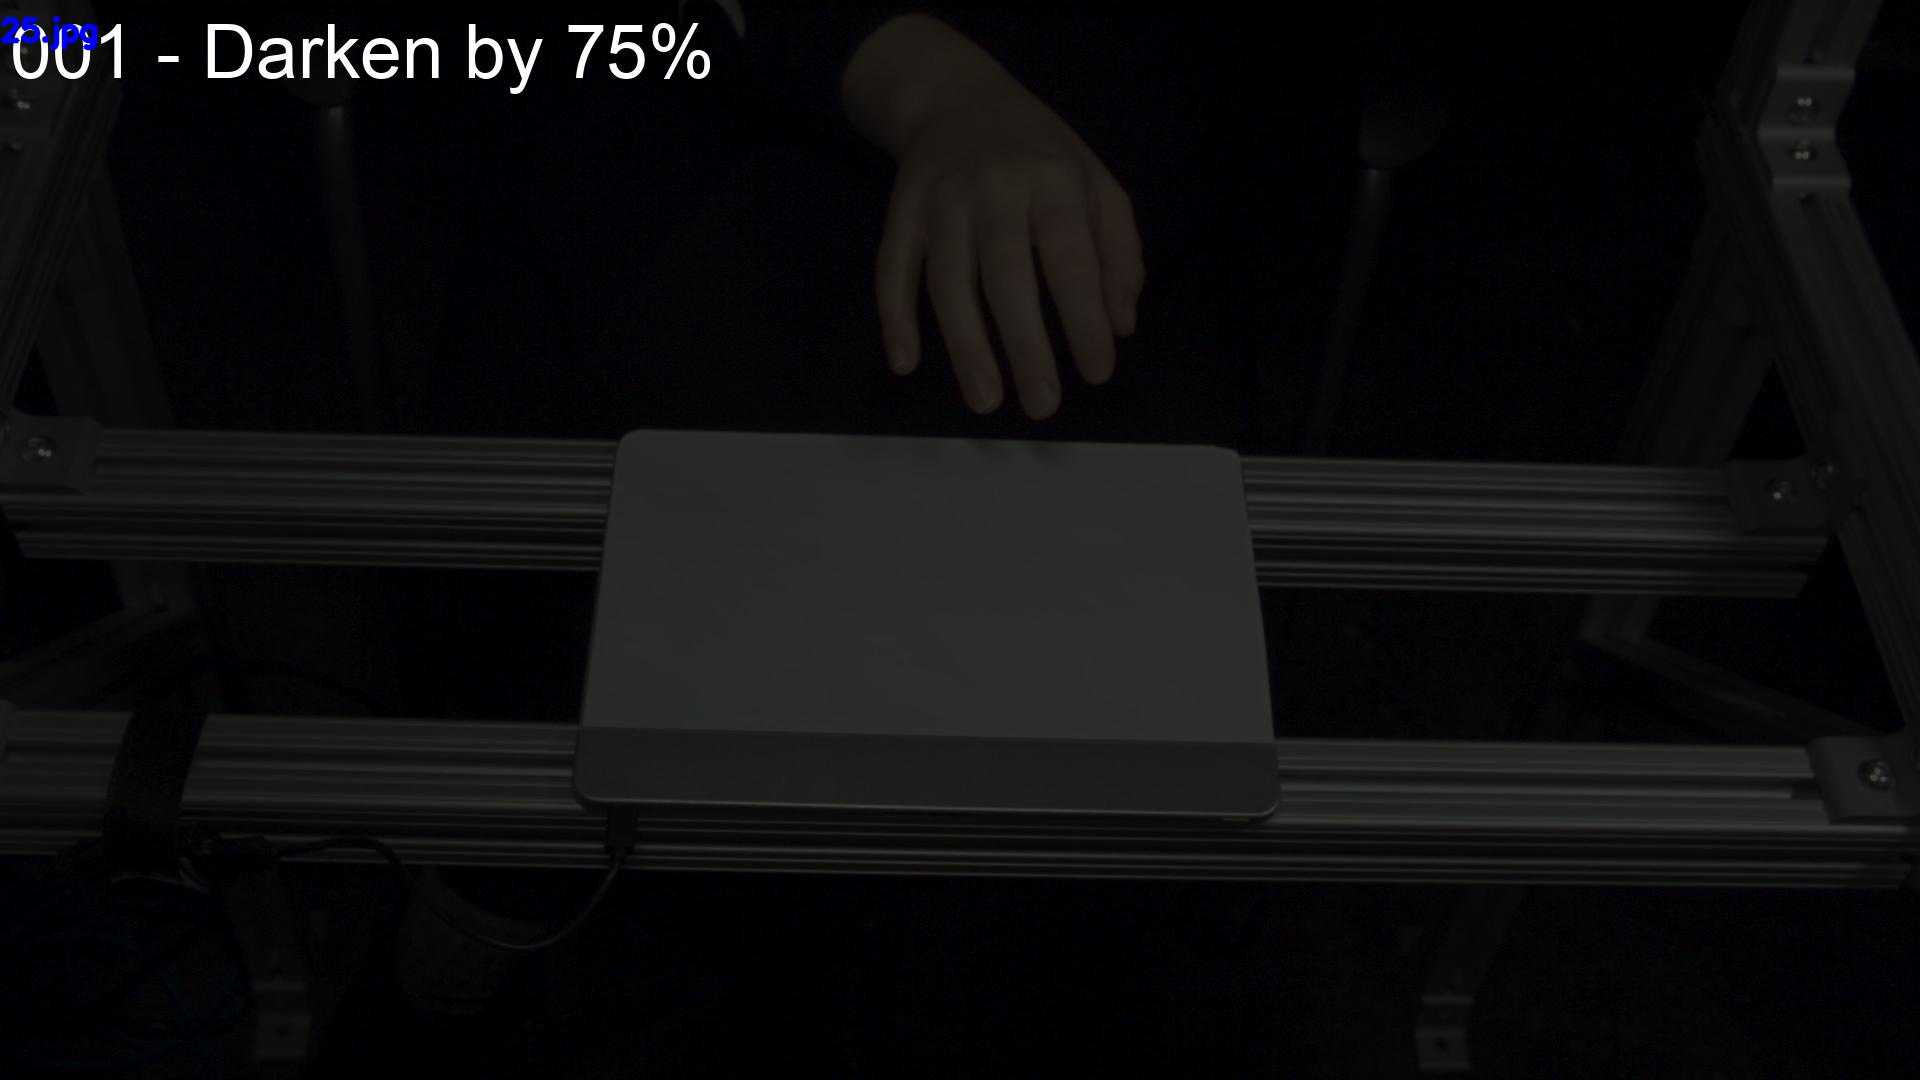
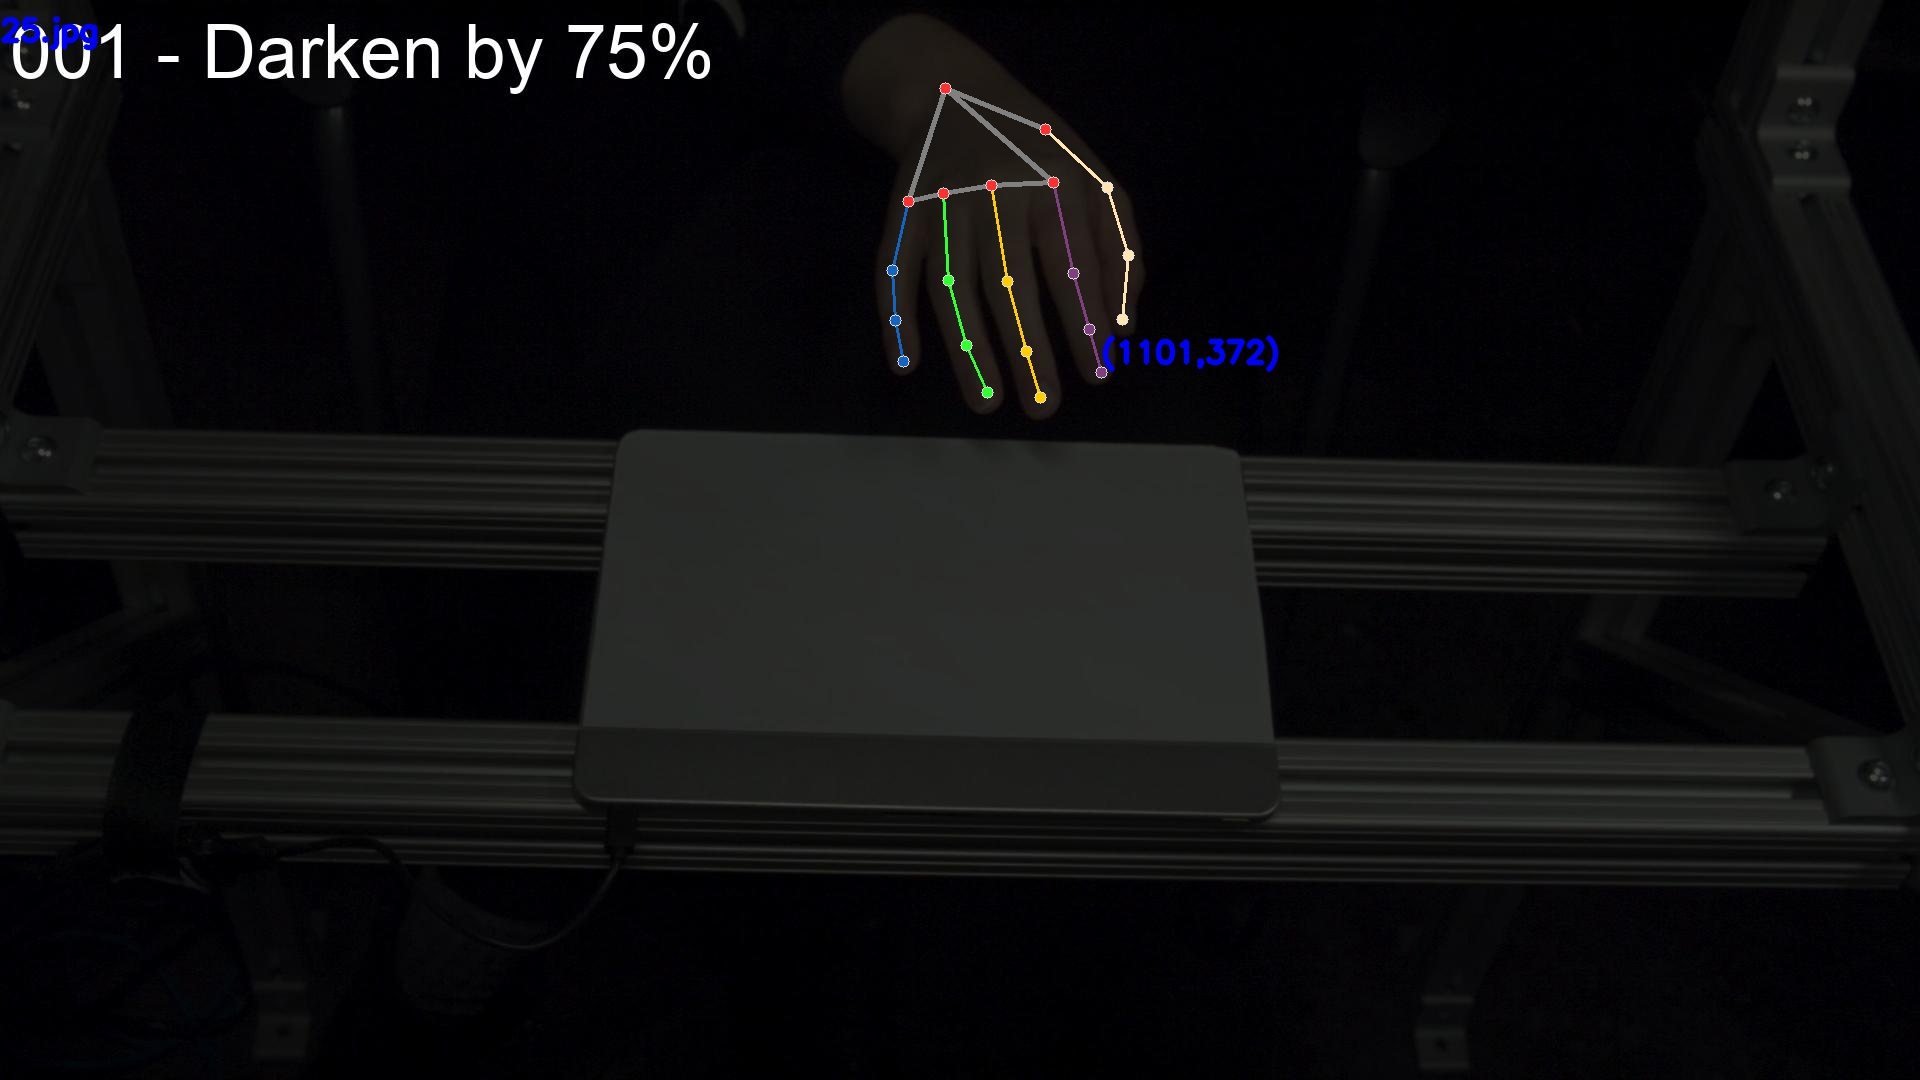
Automatic Commit

diff --git a/testingPILRotate.py b/testingPILRotate.py
@@ -5,19 +5,25 @@ from io import BytesIO
 from pathlib import Path
 from pprint import pprint
 
-def rotate_point(x, y, width, height, amount):
-    radians = math.radians(amount)  # convert degrees to radians
-    new_x = (x - width) * math.cos(radians) - (y - height) * math.sin(radians) + width
-    new_y = (x - width) * math.sin(radians) + (y - height) * math.cos(radians) + height
-    #return new_x * width, new_y * height
+def rotate_point(x, y, width, height, angle):
+    angle = math.radians(angle)
+    new_x = (x - width/2) * math.cos(angle) - (y - height/2) * math.sin(angle) + width/2
+    new_y = (x - width/2) * math.sin(angle) + (y - height/2) * math.cos(angle) + height/2
     return new_x, new_y
 
 def rotate_point_new(x, y, angle):
     angle = math.radians(angle)
-    c, s = math.cos(angle), math.sin(angle)
-    x_rotated = x * c - y * s
-    y_rotated = x * s + y * c
-    return x_rotated, y_rotated
+    new_x = x * math.cos(angle) - y * math.sin(angle)
+    new_y = x * math.sin(angle) + y * math.cos(angle)
+    return new_x, new_y
+def rotate_point_new(x, y, angle, center_x, center_y):
+    angle = math.radians(angle)
+    x_temp = x - center_x
+    y_temp = y - center_y
+    new_x = x_temp * math.cos(angle) - y_temp * math.sin(angle) + center_x
+    new_y = x_temp * math.sin(angle) + y_temp * math.cos(angle) + center_y
+    return new_x, new_y
+
 
 def flip_points_horizontally(points_dict):
     for point in points_dict['landmark']:
@@ -77,19 +83,21 @@ image = Image.open(file)
 draw = ImageDraw.Draw(image)
 print(image)
 size = 5
+center_x, center_y = width/2, height/2
 
 for point in flipped_points['landmark']:
 
     xMain = point['x'] * width
     yMain = point['y'] * height
-    #draw.ellipse((xMain-size, yMain-size, xMain+size, yMain+size), fill=(0, 0, 255))
+    draw.ellipse((xMain-size, yMain-size, xMain+size, yMain+size), fill=(0, 0, 255))
 
-    xRotatedNew, yRotatedNew = rotate_point_new(point['x'] * width, point['y'] * height, -45)
+    xRotatedNew, yRotatedNew = rotate_point_new(xMain, yMain, 45, center_x, center_y)
+
     #print(xRotatedNew, yRotatedNew)
     draw.ellipse((xRotatedNew-size, yRotatedNew-size, xRotatedNew+size, yRotatedNew+size), fill=(0, 0, 0), outline="red")
 
     rotated_x, rotated_y = rotate_point(point['x'], point['y'], width, height,35)
-    print(f"({point['x']}, {point['y']}) \t\t ({rotated_x}, {rotated_y}) ")
+    #print(f"({point['x']}, {point['y']}) \t\t ({rotated_x}, {rotated_y}) ")
 
     rotated_x *= width
     rotated_y *= height

diff --git a/MediaPipe.py b/MediaPipe.py
@@ -8,10 +8,6 @@ import math
 import pickle
 from google.protobuf import text_format
 from google.protobuf.json_format import MessageToDict
-#from mediapipe.framework.formats import landmarks_pb2
-
-#mabye changed
-#here is a chnage lets see if the gets uplaods
 
 mp_drawing = mp.solutions.drawing_utils
 mp_drawing_styles = mp.solutions.drawing_styles
@@ -27,8 +23,6 @@ for imgNumber in range(100):
     for augment in sorted(os.listdir("augmentedImgs")):
         eachImgAugments.append("augmentedImgs/" + augment + "/" + sorted(os.listdir("augmentedImgs/" + augment))[imgNumber])
     allImagesPathGrouped.append(eachImgAugments)
-
-#1920, 1080
 
 font = cv2.FONT_HERSHEY_SIMPLEX
 fontScale = 1
@@ -81,14 +75,10 @@ for imgGroup in allImagesPathGrouped:
                     print(file)
                     print(dictLandmark['landmark'])
 
-
-                    #ct = 0
-                    #for point in dictLandmark['landmark']:
-                    #    hand_landmarks.landmark[count].x, hand_landmarks.landmark[count].x = changePoint(augmentType, point['x'], point['y'], normalized=True)
-                    #    ct+=1
-                    #print(dictLandmark['landmark'][0])
-                    #break
-                    #print(hand_landmarks.landmark[0].x)
+                    countLandMark = 0
+                    for point in dictLandmark['landmark']:
+                        hand_landmarks.landmark[countLandMark].x, hand_landmarks.landmark[count].x = changePoint(augmentType, point['x'], point['y'], normalized=True)
+                        countLandMark+=1
 
                 #print(
                 #    f'Index finger tip coordinates: (',

diff --git a/utils.py b/utils.py
@@ -45,9 +45,12 @@ def changePoint(augmentType, xP, yP, origin=(1920/2, 1080/2), normalized=False):
             return xP, yP
     else:
         if augmentType == "rotatedImg-45":
-            return rotate_point_normlized(xP, yP, 45)
+            xFlippedPoint, yFlippedPoint = flip_points_horizontally(xP, yP)
+            return rotate_point_new(xFlippedPoint, yFlippedPoint, 45, 0.5, 0.5)
         elif augmentType == "rotatedImg-90":
-            return rotate_point_normlized(xP, yP, 90)
+            xFlippedPoint, yFlippedPoint = flip_points_horizontally(xP, yP)
+            return rotate_point_new(xFlippedPoint, yFlippedPoint, 90, 0.5, 0.5)
+            #return rotate_point_normlized(xP, yP, 90)
         elif augmentType == "flippedImg":
             return xP, 1 - yP
 
@@ -67,3 +70,13 @@ def z_score_outliers(data, threshold=3):
     outliers = np.where(z_scores > threshold)
     return outliers
 
+def flip_points_horizontally(x, y):
+    return 1 - x, y
+
+def rotate_point_new(x, y, angle, center_x, center_y):
+    angle = math.radians(angle)
+    x_temp = x - center_x
+    y_temp = y - center_y
+    new_x = x_temp * math.cos(angle) - y_temp * math.sin(angle) + center_x
+    new_y = x_temp * math.sin(angle) + y_temp * math.cos(angle) + center_y
+    return new_x, new_y
